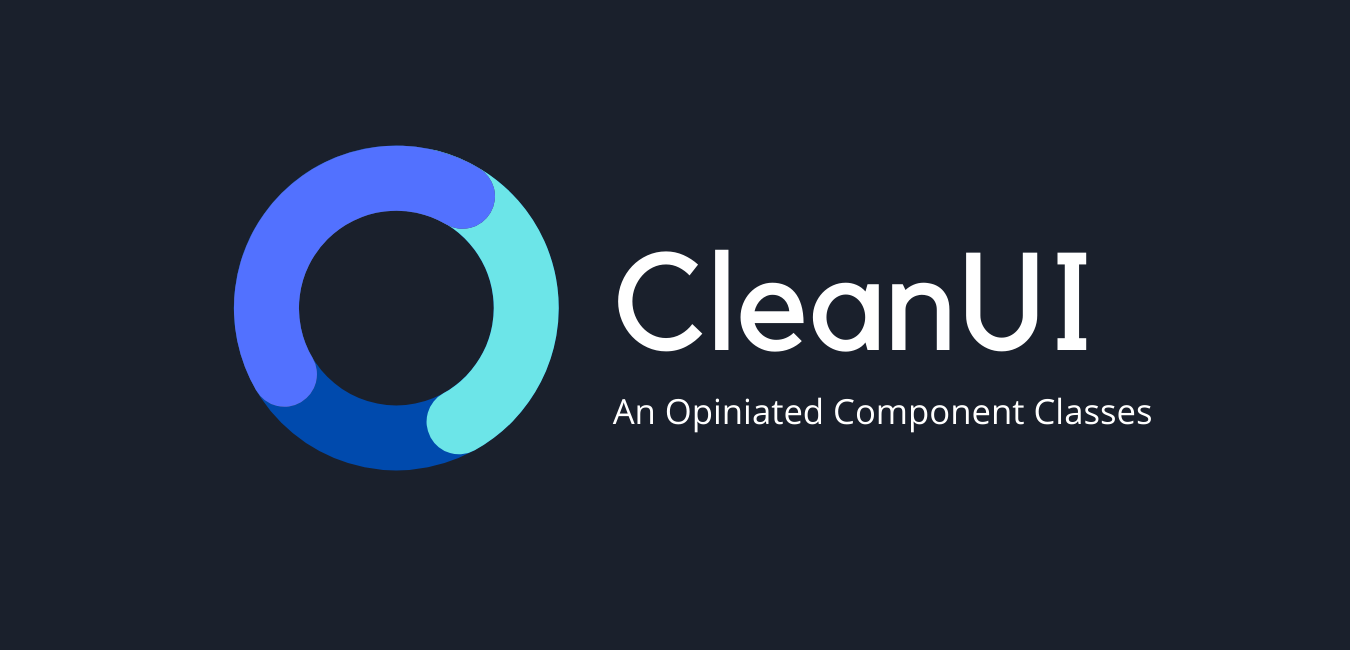
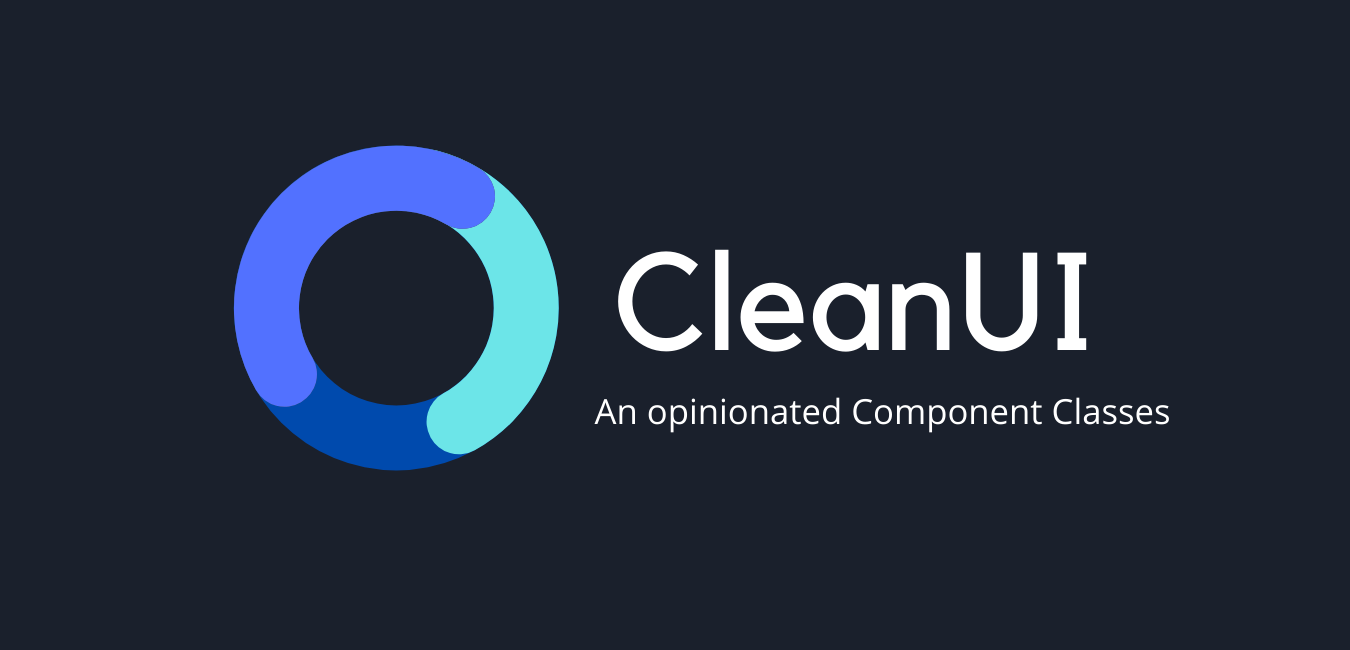
wrong grammar

Changed region(s): [[0.4356, 0.6154, 0.8711, 0.6769]]

diff --git a/docs/content/en/index.md b/docs/content/en/index.md
@@ -13,7 +13,7 @@ features:
 <img src="/preview.png" class="light-img" width="1280" height="640" alt=""/>
 <img src="/preview.png" class="dark-img" width="1280" height="640" alt=""/>
 
-An opiniated Bootstrap component classes CSS powered by TailwindCSS.
+An opinionated "Bootstrap like" component classes CSS powered by TailwindCSS.
 
 ## Features
 
